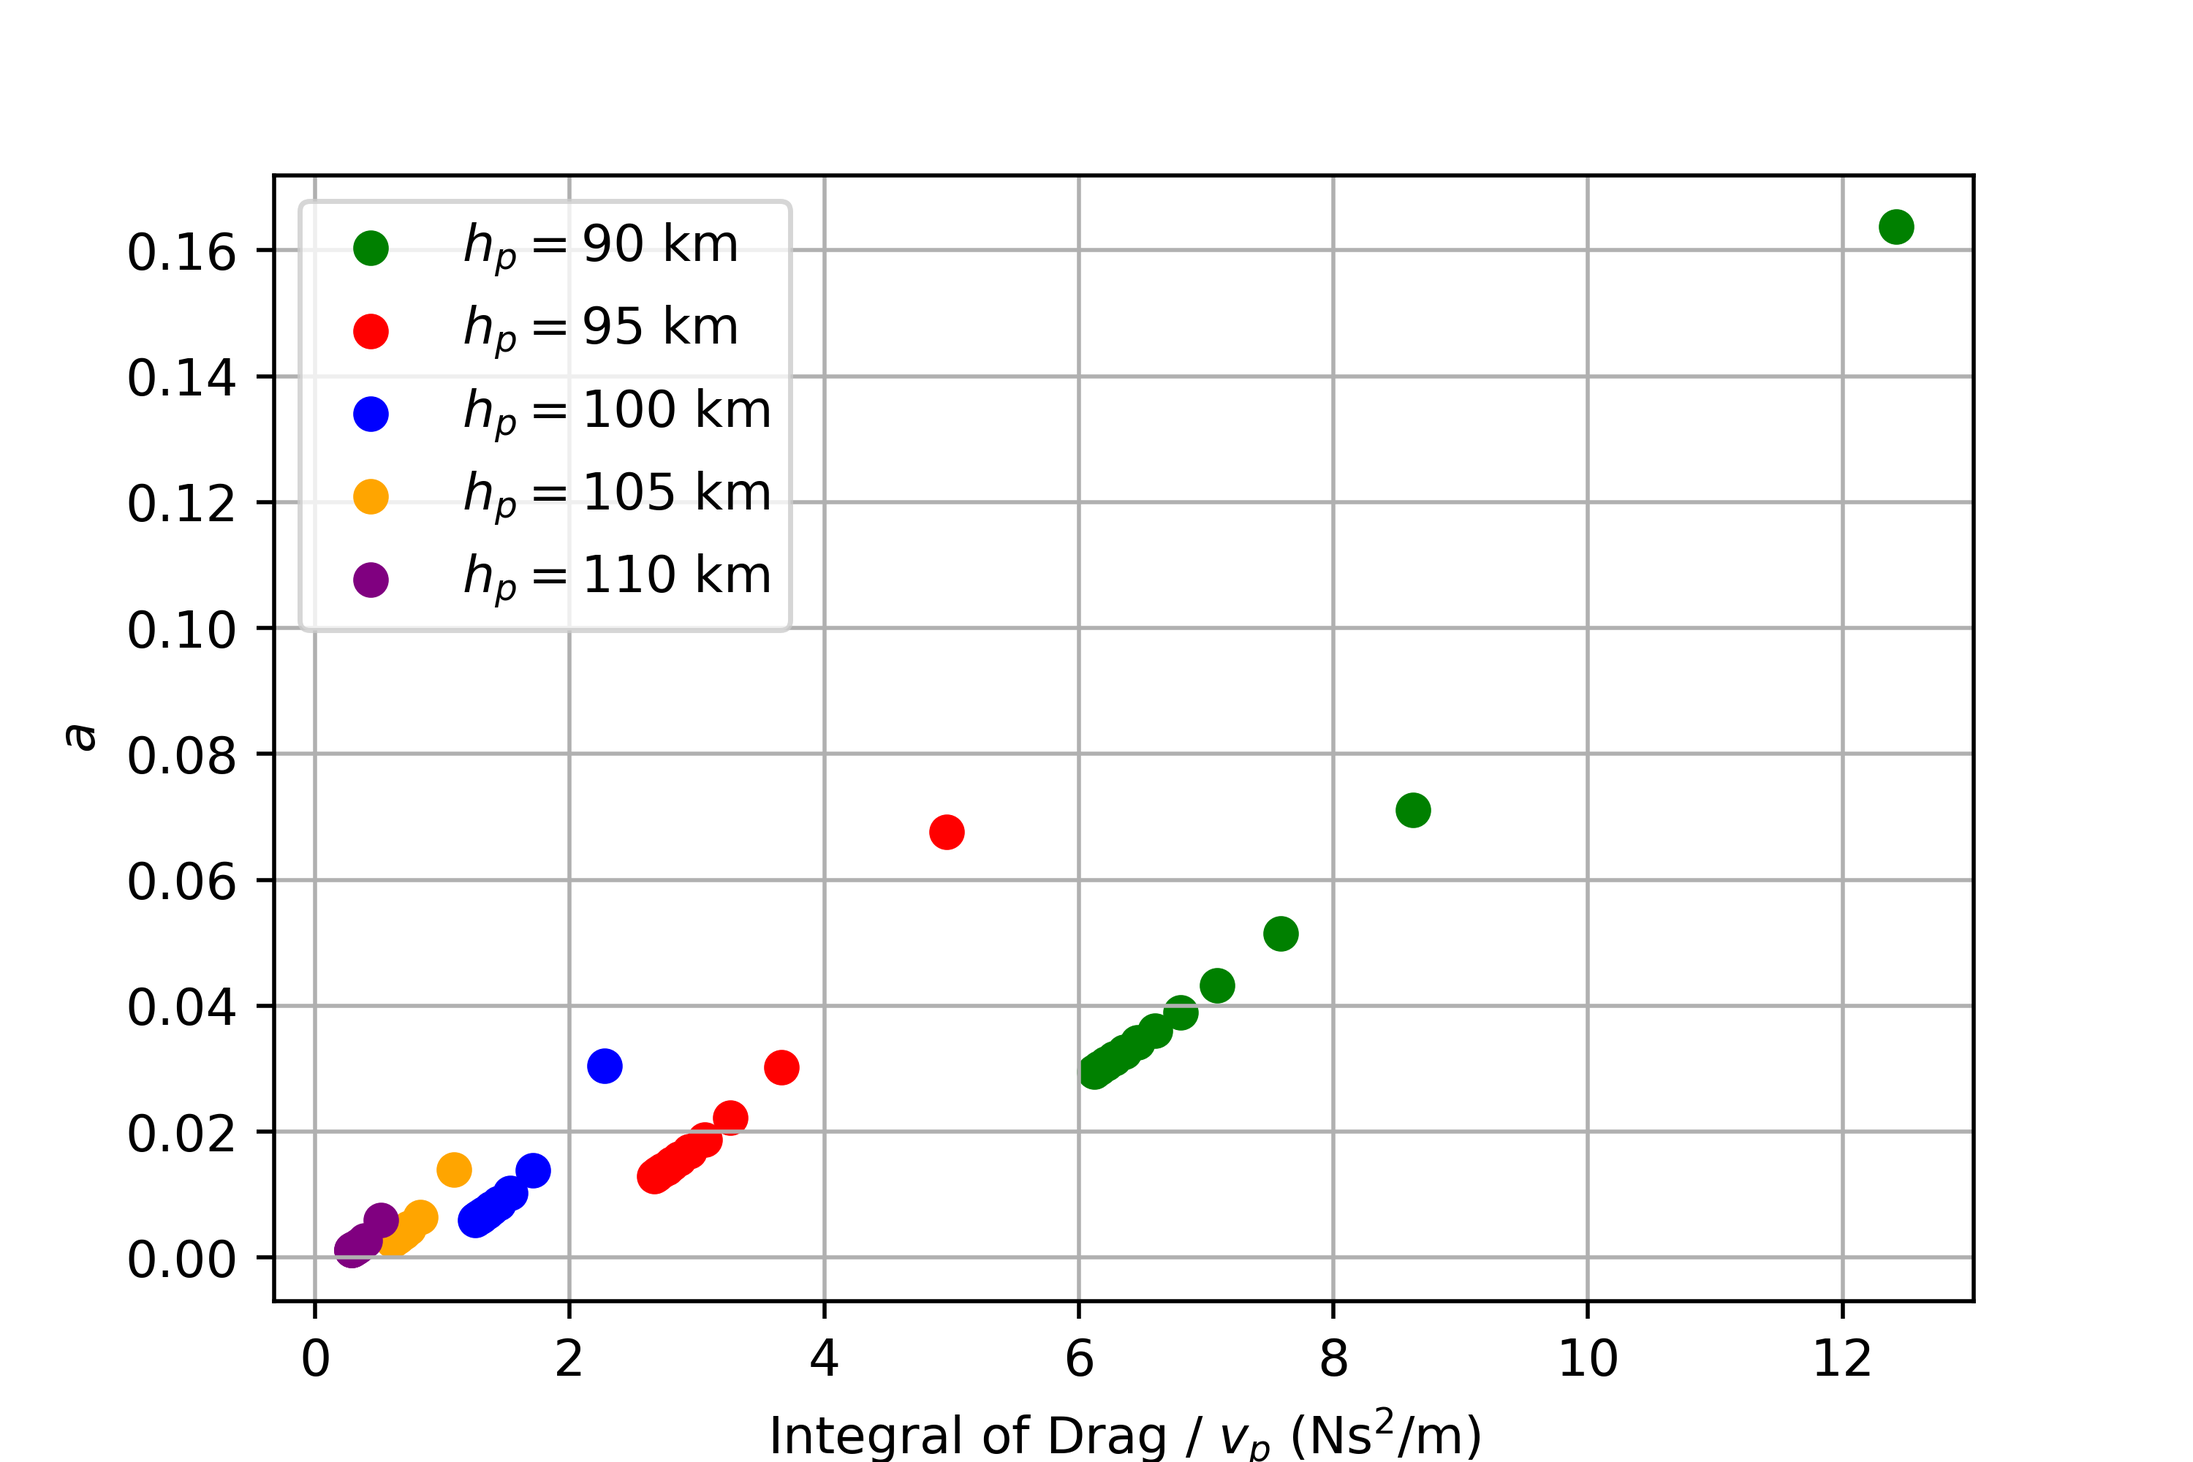
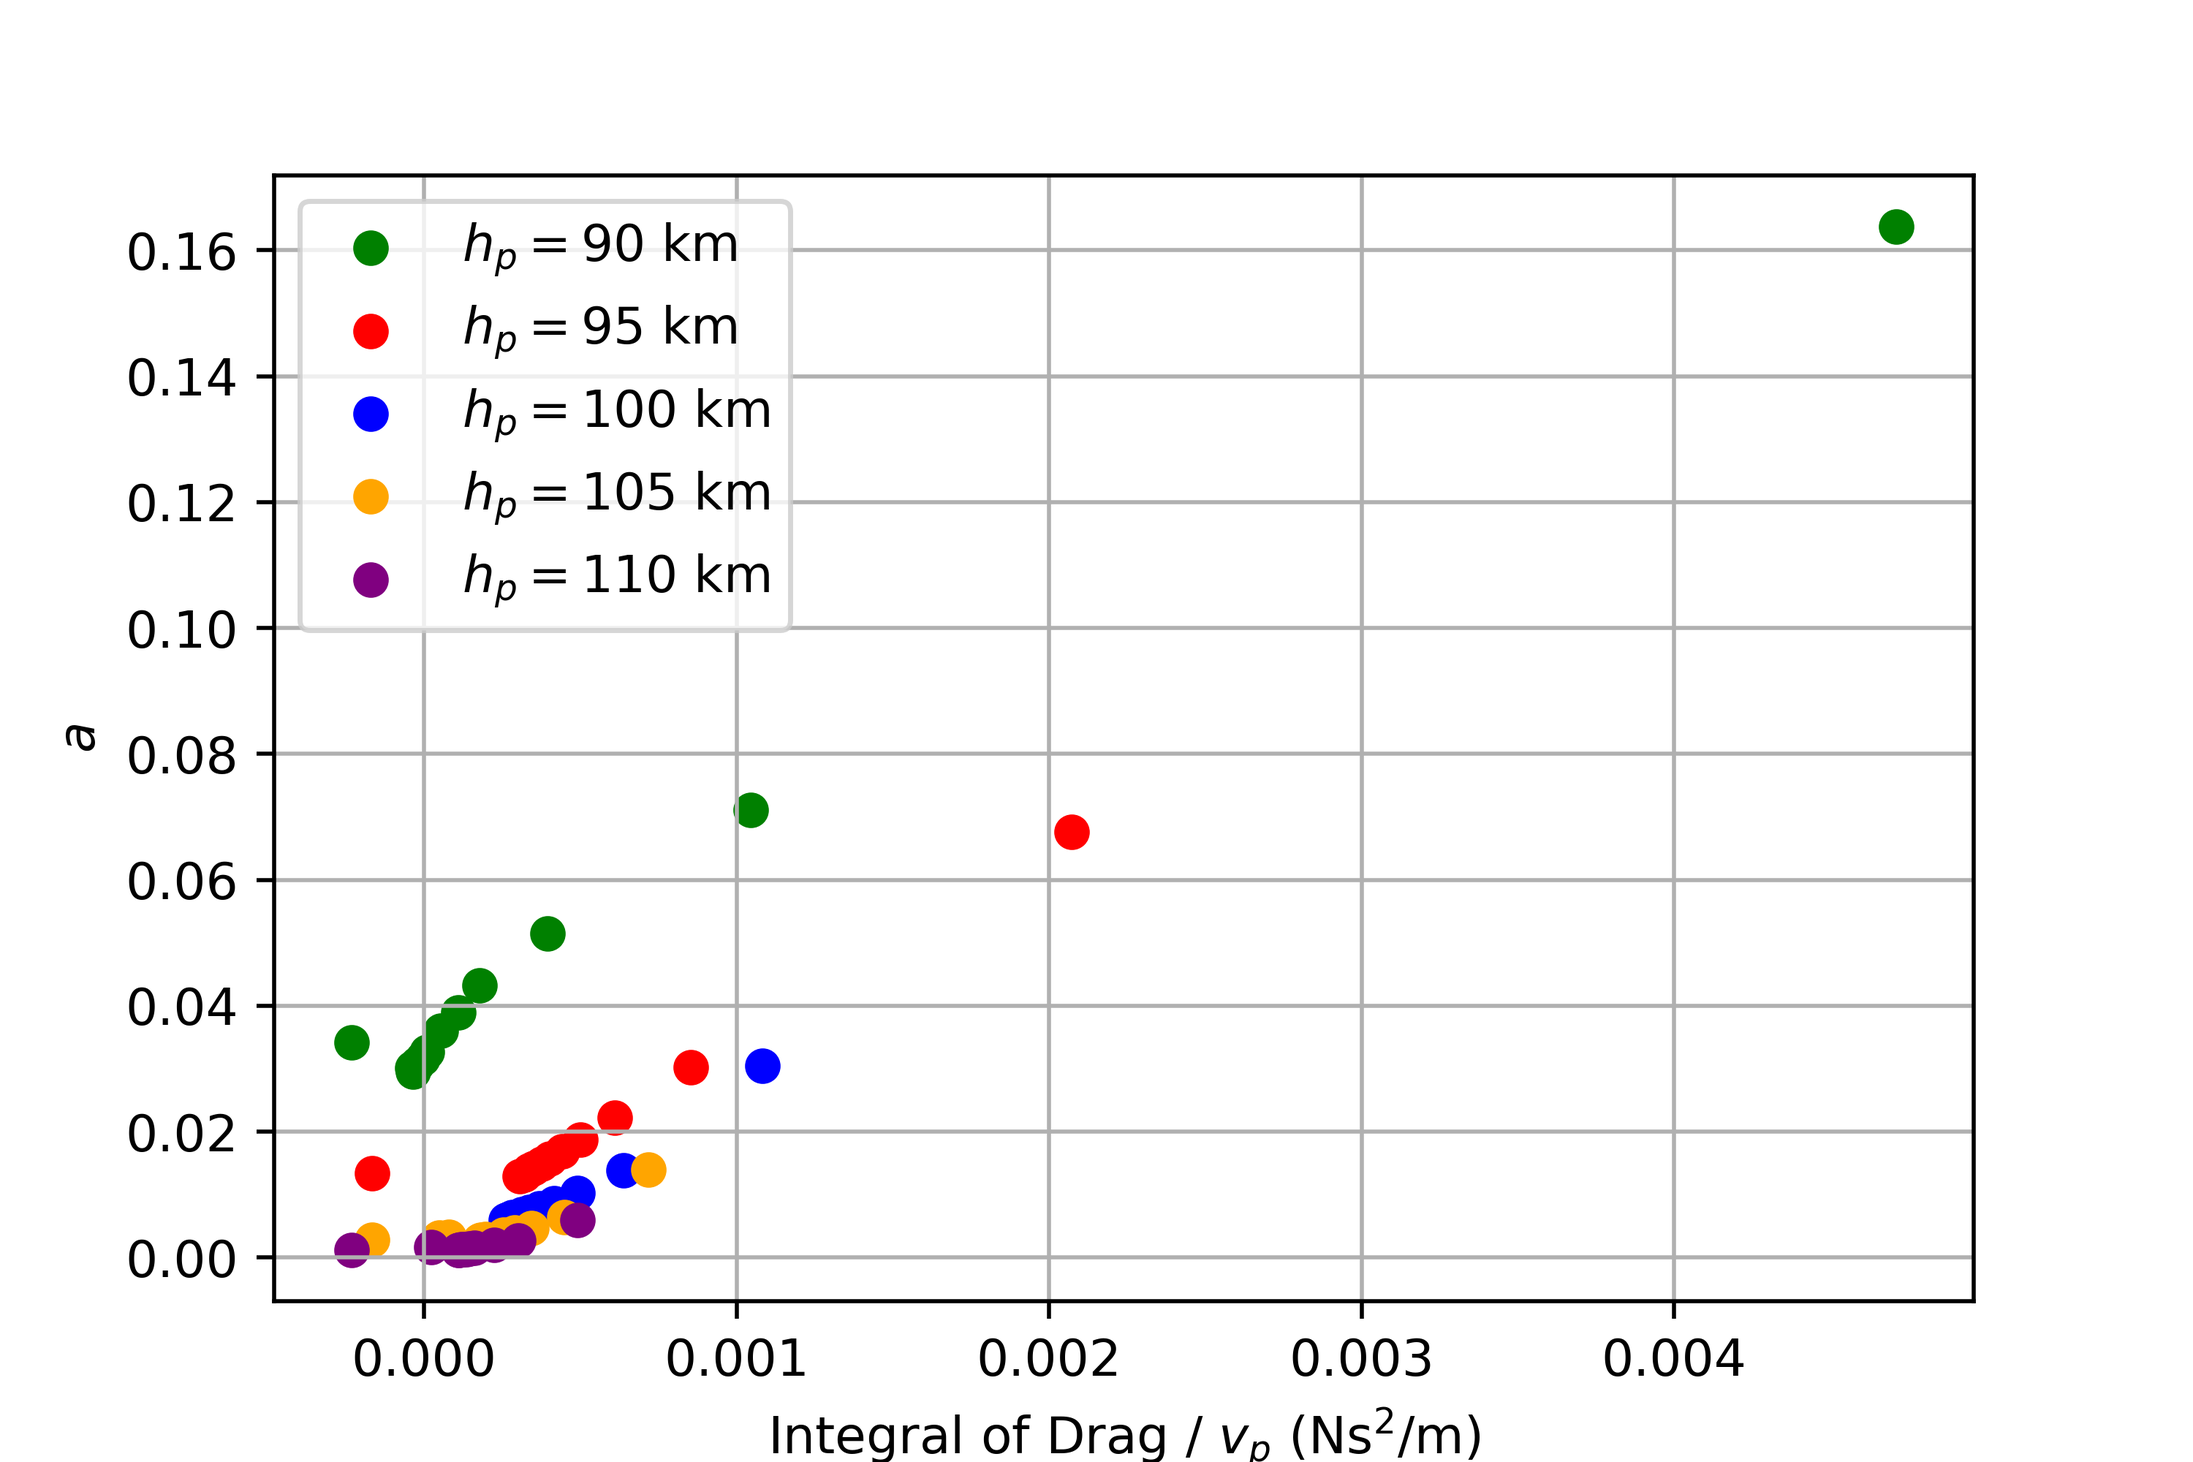
clean code and plots

diff --git a/data_corelation.py b/data_corelation.py
@@ -37,11 +37,11 @@ hddot0 = np.array(csv_file["hddot0"])
 tf_sim = np.array(csv_file["tf_sim"])
 drag0 = np.array(csv_file["Initial drag"])
 drag_int = np.array(csv_file["Integral drag"])
+drag_int_no_v = np.array(csv_file["Integral drag no v"])
+drag_int_hor = np.array(csv_file["Integral hor drag"])
+drag_int_ver = np.array(csv_file["Integral ver drag"])
+drag_int = np.array(csv_file["Integral drag"])
 vp = np.array(csv_file["Periapsis velocity"])
-
-print(ra)
-
-print(hp)
 
 a_axis = np.divide(np.subtract(np.multiply(ra,1000),np.add(np.multiply(hp,1000),Rp)),2)
 # energy = a_axis
@@ -65,104 +65,21 @@ def array_conversion(x):
 
 
 t90, t95, t100, t105, t110 = array_conversion(tf_sim)
-
 vp90, vp95, vp100, vp105, vp110 = array_conversion(vp)
-
-a_coeff90 = a_coeff[0:-1:5]
-a_coeff95 = a_coeff[1:-1:5]
-a_coeff100 = a_coeff[2:-1:5]
-a_coeff105 = a_coeff[3:-1:5]
-a_coeff110 = a_coeff[4:-1:5]
-
-a_coeff90 = a_coeff90.tolist()[9:12] + a_coeff90.tolist()[0:9]
-a_coeff95 = a_coeff95.tolist()[9:12] + a_coeff95.tolist()[0:9]
-a_coeff100 = a_coeff100.tolist()[9:12] + a_coeff100.tolist()[0:9]
-a_coeff105 = a_coeff105.tolist()[9:12] + a_coeff105.tolist()[0:9]
-a_coeff110 = a_coeff110.tolist()[9:12] + a_coeff110.tolist()[0:9]
-
-c_coeff90 = c_coeff[0:-1:5]
-c_coeff95 = c_coeff[1:-1:5]
-c_coeff100 = c_coeff[2:-1:5]
-c_coeff105 = c_coeff[3:-1:5]
-c_coeff110 = c_coeff[4:-1:5]
-
-c_coeff90 = c_coeff90.tolist()[9:12] + c_coeff90.tolist()[0:9]
-c_coeff95 = c_coeff95.tolist()[9:12] + c_coeff95.tolist()[0:9]
-c_coeff100 = c_coeff100.tolist()[9:12] + c_coeff100.tolist()[0:9]
-c_coeff105 = c_coeff105.tolist()[9:12] + c_coeff105.tolist()[0:9]
-c_coeff110 = c_coeff110.tolist()[9:12] + c_coeff110.tolist()[0:9]
-
-rho090 = rho0[0:-1:5]
-rho095 = rho0[1:-1:5]
-rho0100 = rho0[2:-1:5]
-rho0105 = rho0[3:-1:5]
-rho0110 = rho0[4:-1:5]
-
-rho090 = rho090.tolist()[9:12] + rho090.tolist()[0:9]
-rho095 = rho095.tolist()[9:12] + rho095.tolist()[0:9]
-rho0100 = rho0100.tolist()[9:12] + rho0100.tolist()[0:9]
-rho0105 = rho0105.tolist()[9:12] + rho0105.tolist()[0:9]
-rho0110 = rho0110.tolist()[9:12] + rho0110.tolist()[0:9]
-
-v090 = v0[0:-1:5]
-v095 = v0[1:-1:5]
-v0100 = v0[2:-1:5]
-v0105 = v0[3:-1:5]
-v0110 = v0[4:-1:5]
-
-v090 = v090.tolist()[9:12] + v090.tolist()[0:9]
-v095 = v095.tolist()[9:12] + v095.tolist()[0:9]
-v0100 = v0100.tolist()[9:12] + v0100.tolist()[0:9]
-v0105 = v0105.tolist()[9:12] + v0105.tolist()[0:9]
-v0110 = v0110.tolist()[9:12] + v0110.tolist()[0:9]
-
-y090 = y0[0:-1:5]
-y095 = y0[1:-1:5]
-y0100 = y0[2:-1:5]
-y0105 = y0[3:-1:5]
-y0110 = y0[4:-1:5]
-
-y090 = y090.tolist()[9:12] + y090.tolist()[0:9]
-y095 = y095.tolist()[9:12] + y095.tolist()[0:9]
-y0100 = y0100.tolist()[9:12] + y0100.tolist()[0:9]
-y0105 = y0105.tolist()[9:12] + y0105.tolist()[0:9]
-y0110 = y0110.tolist()[9:12] + y0110.tolist()[0:9]
-
-drag090 = drag0[0:-1:5]
-drag095 = drag0[1:-1:5]
-drag0100 = drag0[2:-1:5]
-drag0105 = drag0[3:-1:5]
-drag0110 = drag0[4:-1:5]
-
-drag090 = drag090.tolist()[9:12] + drag090.tolist()[0:9]
-drag095 = drag095.tolist()[9:12] + drag095.tolist()[0:9]
-drag0100 = drag0100.tolist()[9:12] + drag0100.tolist()[0:9]
-drag0105 = drag0105.tolist()[9:12] + drag0105.tolist()[0:9]
-drag0110 = drag0110.tolist()[9:12] + drag0110.tolist()[0:9]
-
-energy90 = energy[0:-1:5]
-energy95 = energy[1:-1:5]
-energy100 = energy[2:-1:5]
-energy105 = energy[3:-1:5]
-energy110 = energy[4:-1:5]
-
-energy90 = energy90.tolist()[9:12] + energy90.tolist()[0:9]
-energy95 = energy95.tolist()[9:12] + energy95.tolist()[0:9]
-energy100 = energy100.tolist()[9:12] + energy100.tolist()[0:9]
-energy105 = energy105.tolist()[9:12] + energy105.tolist()[0:9]
-energy110 = energy110.tolist()[9:12] + energy110.tolist()[0:9]
-
-drag_int90 = drag_int[0:-1:5]
-drag_int95 = drag_int[1:-1:5]
-drag_int100 = drag_int[2:-1:5]
-drag_int105 = drag_int[3:-1:5]
-drag_int110 = drag_int[4:-1:5]
-
-drag_int90 = drag_int90.tolist()[9:12] + drag_int90.tolist()[0:9]
-drag_int95 = drag_int95.tolist()[9:12] + drag_int95.tolist()[0:9]
-drag_int100 = drag_int100.tolist()[9:12] + drag_int100.tolist()[0:9]
-drag_int105 = drag_int105.tolist()[9:12] + drag_int105.tolist()[0:9]
-drag_int110 = drag_int110.tolist()[9:12] + drag_int110.tolist()[0:9]
+a_coeff90, a_coeff95, a_coeff100, a_coeff105, a_coeff110 = array_conversion(a_coeff)
+b_coeff90, b_coeff95, b_coeff100, b_coeff105, b_coeff110 = array_conversion(b_coeff)
+c_coeff90, c_coeff95, c_coeff100, c_coeff105, c_coeff110 = array_conversion(c_coeff)
+h090, h095, h0100, h0105, h0110 = array_conversion(h0)
+v090, v095, v0100, v0105, v0110 = array_conversion(v0)
+y090, y095, y0100, y0105, y0110 = array_conversion(y0)
+rho090, rho095, rho0100, rho0105, rho0110 = array_conversion(rho0)
+hddot090, hddot095, hddot0100, hddot0105, hddot0110 = array_conversion(hddot0)
+drag090, drag095, drag0100, drag0105, drag0110 = array_conversion(drag0)
+energy90, energy95, energy100, energy105, energy110 = array_conversion(energy)
+drag_int90, drag_int95, drag_int100, drag_int105, drag_int110 = array_conversion(drag_int)
+drag_int_no_v90, drag_int_no_vt95, drag_int_no_v100, drag_int_no_v105, drag_int_no_v110 = array_conversion(drag_int_no_v)
+drag_int_ver90, drag_int_ver95, drag_int_ver100, drag_int_ver105, drag_int_ver110 = array_conversion(drag_int_ver)
+drag_int_hor90, drag_int_hor95, drag_int_hor100, drag_int_hor105, drag_int_hor110 = array_conversion(drag_int_hor)
 
 
 # fig_acoeff = plt.figure("a_coeff", dpi=500, figsize=[6,4])
@@ -190,17 +107,17 @@ plt.figure("a_coeff")
 
 #     plt.plot(x, y,'k--', linewidth = "1")
 
-plt.scatter(np.divide(drag_int90, vp90), a_coeff90, color='green', marker='o', label = '$h_p = 90$ km')   
-plt.scatter(np.divide(drag_int95, vp95), a_coeff95, color='red', marker='o', label = '$h_p = 95$ km')   
-plt.scatter(np.divide(drag_int100, vp100), a_coeff100, color='blue', marker='o',  label = '$h_p = 100$ km')   
-plt.scatter(np.divide(drag_int105, vp105), a_coeff105, color='orange', marker='o', label = '$h_p = 105$ km')   
-plt.scatter(np.divide(drag_int110, vp110), a_coeff110, color='purple', marker='o',  label = '$h_p = 110$ km')  
+plt.scatter(drag_int90, a_coeff90, color='green', marker='o', label = '$h_p = 90$ km')   
+plt.scatter(drag_int95, a_coeff95, color='red', marker='o', label = '$h_p = 95$ km')   
+plt.scatter(drag_int100, a_coeff100, color='blue', marker='o',  label = '$h_p = 100$ km')   
+plt.scatter(drag_int105, a_coeff105, color='orange', marker='o', label = '$h_p = 105$ km')   
+plt.scatter(drag_int110, a_coeff110, color='purple', marker='o',  label = '$h_p = 110$ km')  
 
 # plt.scatter(y0, a_coeff, color='blue', marker='o')    
 plt.legend();plt.grid()
-plt.xlabel("Integral of Drag / $v_p$ (Ns$^2$/m)")
+plt.xlabel("Integral of Drag (N)")
 plt.ylabel("$a$")
-fig_acoeff.savefig("all_sims_figures/a_coeff_drag_integral_vp.png")
+fig_acoeff.savefig("all_views/a_coeff_drag_integral.png")
 
 # X = [v090,v095,v0100,v0105,v0110]
 # X = [y090,y095,y0100,y0105,y0110]
@@ -211,55 +128,55 @@ Z = [a_coeff90,a_coeff95,a_coeff100,a_coeff105,a_coeff110]
 # Z = [c_coeff90,c_coeff95,c_coeff100,c_coeff105,c_coeff110]
 
 
-fig_contour = plt.figure("contour", dpi=500, figsize=[6,4])
-plt.figure("contour")
-CS = plt.contourf(X, Y, Z, 15)
-CB = fig_contour.colorbar(CS)
-# plt.scatter(rho090, drag090, color='green', marker='o', label = '$h_p = 90$ km')   
-# plt.scatter(rho095, drag095, color='red', marker='o', label = '$h_p = 95$ km')   
-# plt.scatter(rho0100,drag0100, color='blue', marker='o',  label = '$h_p = 100$ km')   
-# plt.scatter(rho0105, drag0105, color='orange', marker='o', label = '$h_p = 105$ km')   
-# plt.scatter(rho0110, drag0110, color='purple', marker='o',  label = '$h_p = 110$ km')   
-plt.grid()
-# plt.xlabel(r'$\rho_0$')
-plt.xlabel("Specific Kinetic Energy")
-plt.ylabel("$D_0$")
-CB.ax.set_ylabel("$a$")
-# CB.ax.set_ylabel(r"$\rho_0$")
-fig_contour.savefig("all_sims_figures/contour_a_D0_asem.png")
+# fig_contour = plt.figure("contour", dpi=500, figsize=[6,4])
+# plt.figure("contour")
+# CS = plt.contourf(X, Y, Z, 15)
+# CB = fig_contour.colorbar(CS)
+# # plt.scatter(rho090, drag090, color='green', marker='o', label = '$h_p = 90$ km')   
+# # plt.scatter(rho095, drag095, color='red', marker='o', label = '$h_p = 95$ km')   
+# # plt.scatter(rho0100,drag0100, color='blue', marker='o',  label = '$h_p = 100$ km')   
+# # plt.scatter(rho0105, drag0105, color='orange', marker='o', label = '$h_p = 105$ km')   
+# # plt.scatter(rho0110, drag0110, color='purple', marker='o',  label = '$h_p = 110$ km')   
+# plt.grid()
+# # plt.xlabel(r'$\rho_0$')
+# plt.xlabel("Specific Kinetic Energy")
+# plt.ylabel("$D_0$")
+# CB.ax.set_ylabel("$a$")
+# # CB.ax.set_ylabel(r"$\rho_0$")
+# fig_contour.savefig("all_sims_figures/contour_a_D0_asem.png")
 
 
-# fig_3D = plt.figure("3d", dpi=500, figsize=[6,4])
-fig_3D = plt.figure("3d")
-ax = fig_3D.add_subplot(projection = '3d')
-# CS = ax.plot_trisurf(rho0, a_coeff, v0, cmap=plt.cm.Spectral, linewidth=1, antialiased=True)
-# CB = fig_3D.colorbar(CS)
-ax.plot(energy90[1:], drag090[1:], a_coeff90[1:],'b.-', label = '$h_p = 90$ km')   
-ax.plot(energy95[1:], drag095[1:], a_coeff95[1:],'g.-', label = '$h_p = 95$ km')   
-ax.plot(energy100[1:], drag0100[1:],a_coeff100[1:], 'r.-',  label = '$h_p = 100$ km')   
-ax.plot(energy105[1:], drag0105[1:], a_coeff105[1:],'m.-', label = '$h_p = 105$ km')   
-ax.plot(energy110[1:], drag0110[1:], a_coeff110[1:],'c.-',  label = '$h_p = 110$ km')  
+# # fig_3D = plt.figure("3d", dpi=500, figsize=[6,4])
+# fig_3D = plt.figure("3d")
+# ax = fig_3D.add_subplot(projection = '3d')
+# # CS = ax.plot_trisurf(rho0, a_coeff, v0, cmap=plt.cm.Spectral, linewidth=1, antialiased=True)
+# # CB = fig_3D.colorbar(CS)
+# ax.plot(energy90[1:], drag090[1:], a_coeff90[1:],'b.-', label = '$h_p = 90$ km')   
+# ax.plot(energy95[1:], drag095[1:], a_coeff95[1:],'g.-', label = '$h_p = 95$ km')   
+# ax.plot(energy100[1:], drag0100[1:],a_coeff100[1:], 'r.-',  label = '$h_p = 100$ km')   
+# ax.plot(energy105[1:], drag0105[1:], a_coeff105[1:],'m.-', label = '$h_p = 105$ km')   
+# ax.plot(energy110[1:], drag0110[1:], a_coeff110[1:],'c.-',  label = '$h_p = 110$ km')  
 
 
-for i in range(1, 12):
-    # print(i)
+# for i in range(1, 12):
+#     # print(i)
 
-    r = [energy90[i], energy95[i], energy100[i], energy105[i], energy110[i]]
-    v = [drag090[i], drag095[i], drag0100[i], drag0105[i], drag0110[i]]
-    # v = [y090[i], y095[i], y0100[i], y0105[i], y0110[i]]
-    a = [a_coeff90[i], a_coeff95[i], a_coeff100[i], a_coeff105[i], a_coeff110[i]]
-    # v = [v090[i], v095[i], v0100[i], v0105[i], v0110[i]]
+#     r = [energy90[i], energy95[i], energy100[i], energy105[i], energy110[i]]
+#     v = [drag090[i], drag095[i], drag0100[i], drag0105[i], drag0110[i]]
+#     # v = [y090[i], y095[i], y0100[i], y0105[i], y0110[i]]
+#     a = [a_coeff90[i], a_coeff95[i], a_coeff100[i], a_coeff105[i], a_coeff110[i]]
+#     # v = [v090[i], v095[i], v0100[i], v0105[i], v0110[i]]
 
-    ax.plot(r, v, a,'k-')
+#     ax.plot(r, v, a,'k-')
 
 
-# ax.set_ylabel("$a$",size='x-large')
-# ax.set_xlabel("$D_{max}$ (N)",size='x-large')
-plt.xlabel("Specific kinetic energy")
-plt.ylabel("Initial Drag")
-ax.set_zlabel("$a$")
-# plt.bar_label("$v_0$")
-plt.legend(fontsize=16)
-plt.grid()
-# plt.show()
-fig_3D.savefig("all_sims_figures/3d.png")
+# # ax.set_ylabel("$a$",size='x-large')
+# # ax.set_xlabel("$D_{max}$ (N)",size='x-large')
+# plt.xlabel("Specific kinetic energy")
+# plt.ylabel("Initial Drag")
+# ax.set_zlabel("$a$")
+# # plt.bar_label("$v_0$")
+# plt.legend(fontsize=16)
+# plt.grid()
+# # plt.show()
+# fig_3D.savefig("all_sims_figures/3d.png")

diff --git a/all_sims.py b/all_sims.py
@@ -38,6 +38,9 @@ hddot0_tot=[]
 ICs_tot = []
 drag_integral_tot = []
 vp_tot = []
+drag_integral_no_v_tot = []
+drag_integral_hor_tot = []
+drag_integral_ver_tot = []
 
 
 #constants
@@ -78,6 +81,11 @@ for folder in sorted(os.listdir(directory)):
     max_D_array=[]
     drag_integral = []
     vp_array = []
+
+    drag_integral_no_v = []
+    drag_integral_hor = []
+    drag_integral_ver = []
+
 
     for folder2 in sorted(os.listdir(os.path.join(directory,folder))):
         #check each folder in the results folder
@@ -491,8 +499,18 @@ for folder in sorted(os.listdir(directory)):
 
         drag_int = integrate.simps(drag_sim, x = t_simulation)
         drag_integral.append(drag_int)
+
         vp_array.append(vp)
-        
+
+        drag_int_no_v = integrate.simps(np.divide(drag_sim,v_sim**2), x = t_simulation)
+        drag_integral_no_v.append(drag_int_no_v)
+
+        drag_int_ver = integrate.simps(np.multiply(drag_sim,np.sin(y_sim)), x = t_simulation)
+        drag_integral_ver.append(drag_int_ver)
+
+        drag_int_hor = integrate.simps(np.multiply(drag_sim,np.cos(y_sim)), x = t_simulation)
+        drag_integral_hor.append(drag_int_hor)
+            
 
     diff_tot.append([final_diff[3],final_diff[4],final_diff[0],final_diff[1],final_diff[2]])
     
@@ -504,6 +522,9 @@ for folder in sorted(os.listdir(directory)):
     tp_lamb_tot.append([tp_lamb_array[3],tp_lamb_array[4],tp_lamb_array[0],tp_lamb_array[1],tp_lamb_array[2]])
     tf_sim_tot.append([tf_sim_array[3],tf_sim_array[4],tf_sim_array[0],tf_sim_array[1],tf_sim_array[2]]) 
     max_D_tot.append([max_D_array[3],max_D_array[4],max_D_array[0],max_D_array[1],max_D_array[2]]) 
+    drag_integral_no_v_tot.append([drag_integral_no_v[3],drag_integral_no_v[4],drag_integral_no_v[0],drag_integral_no_v[1],drag_integral_no_v[2]])
+    drag_integral_ver_tot.append([drag_integral_ver[3],drag_integral_ver[4],drag_integral_ver[0],drag_integral_ver[1],drag_integral_ver[2]])
+    drag_integral_hor_tot.append([drag_integral_hor[3],drag_integral_hor[4],drag_integral_hor[0],drag_integral_hor[1],drag_integral_hor[2]])
     drag_integral_tot.append([drag_integral[3],drag_integral[4],drag_integral[0],drag_integral[1],drag_integral[2]])
     vp_tot.append([vp_array[3],vp_array[4],vp_array[0],vp_array[1],vp_array[2]])
 
@@ -685,12 +706,13 @@ import csv
 
 print(tf_sim_tot)
 
-header = ['Simulation','hp', 'a','b','c', 'h0', 'v0', 'y0', 'rho0' ,'hddot0','tp_lamb',"tf_sim","Initial drag", "Integral drag", "Periapsis velocity"]
+# header = ['Simulation','hp', 'a','b','c', 'h0', 'v0', 'y0', 'rho0' ,'hddot0','tp_lamb',"tf_sim","Initial drag", "Integral drag", "Periapsis velocity", "Integral drag no v", "Integral hor drag", "Integral ver drag"]
+header = ['Simulation','hp', 'a','b','c', 'h0', 'v0', 'y0', 'rho0' ,'hddot0','tp_lamb',"tf_sim","Initial drag", "Integral drag", "Integral hor drag", "Integral ver drag", "Integral drag no v", "Periapsis velocity"]
 rp = [90,95,100,105,110]
 
 print(np.size(hddot0_tot))
 
-data = np.empty((61,15))
+data = np.empty((61,len(header)))
 
 ct = 0
 
@@ -712,7 +734,10 @@ for i in range(len(ra)):
         data[ct][11] = tf_sim_tot[i][j]
         data[ct][12] = max_D_tot[i][j]
         data[ct][13] = drag_integral_tot[i][j]
-        data[ct][14] = vp_tot[i][j]
+        data[ct][14] = drag_integral_hor_tot[i][j]
+        data[ct][15] = drag_integral_ver_tot[i][j]
+        data[ct][16] = drag_integral_no_v_tot[i][j]
+        data[ct][17] = vp_tot[i][j]
         
         ct = ct+1
 
